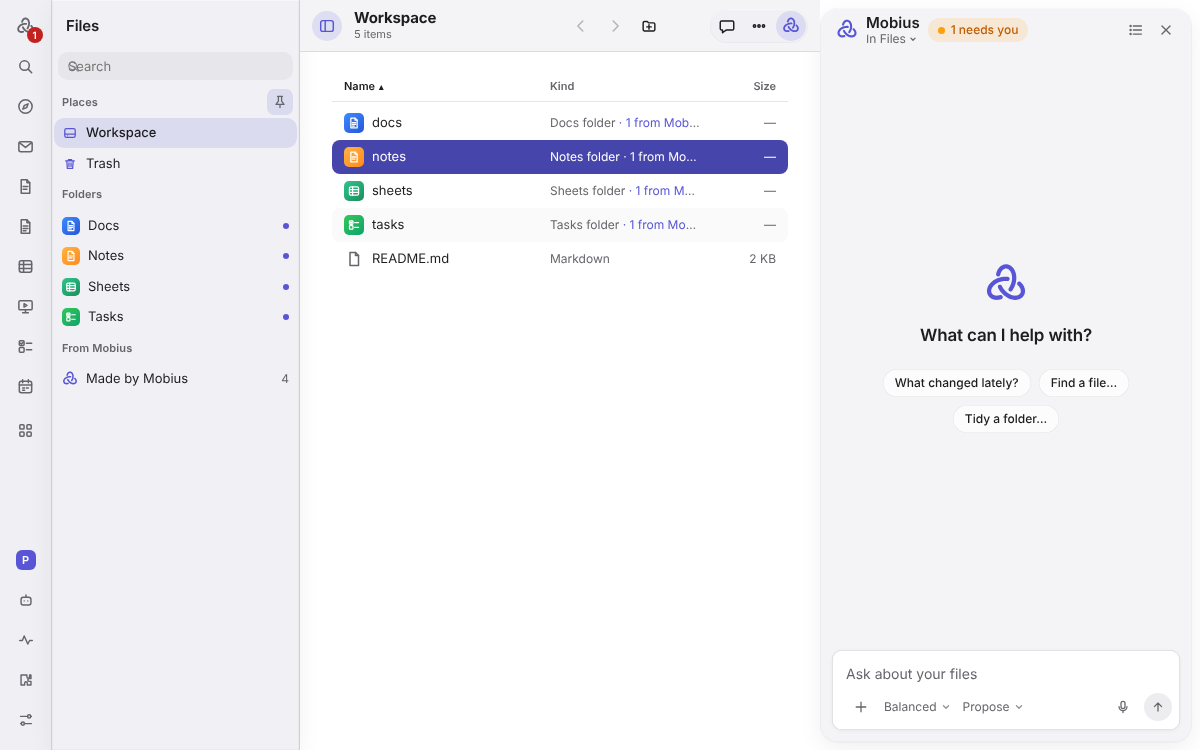
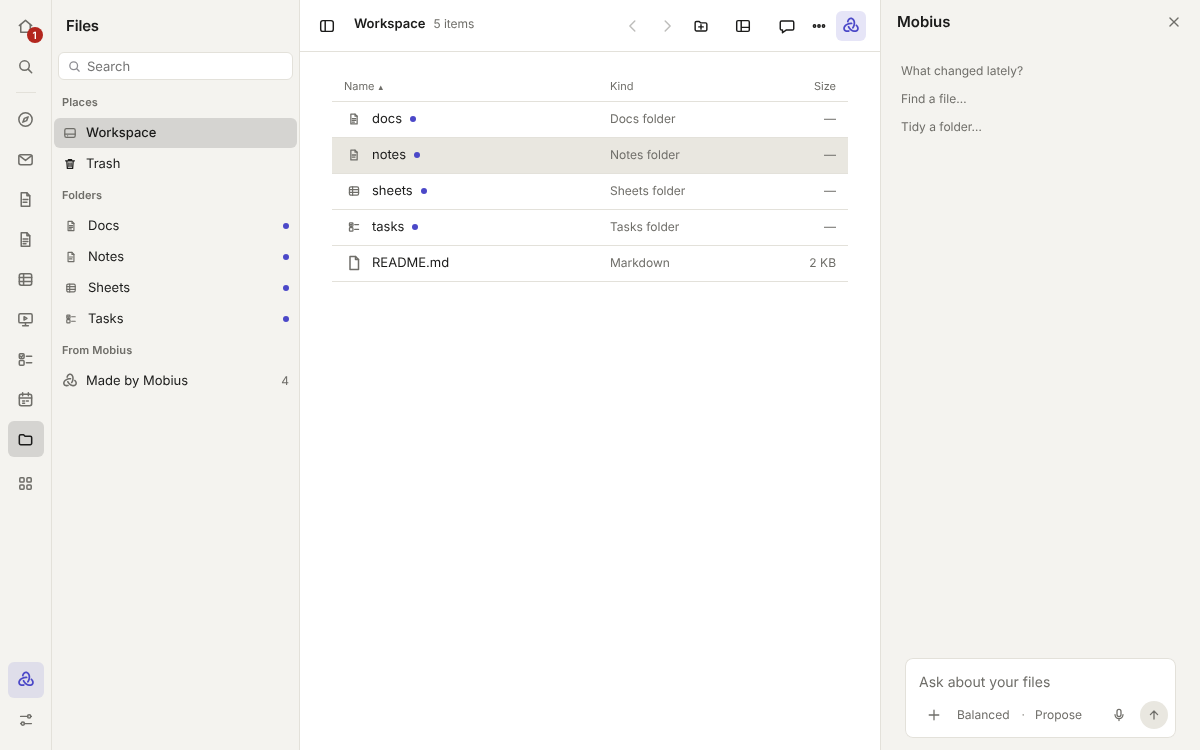
Files: plain rows, quiet headers, and Mobius as a dot, matching Mail (#145)
* Files: plain rows, quiet headers, and Mobius as a dot, matching Mail

Rows are plain with hairlines and select in the neutral --sel, as in Mail.
Column headers are regular grey. A folder holding Mobius's files shows an
indigo dot with a tooltip instead of text in Kind, and the sidebar dots a
folder only until it has been looked in since Mobius's last turn.

Claude-Session: https://claude.ai/code/session_01VRGwoA1njCqKTW7w1nBgzh

* Files: take the PR screenshots back out of the tree

Claude-Session: https://claude.ai/code/session_01VRGwoA1njCqKTW7w1nBgzh

---------

diff --git a/apps/desktop/src/Files.tsx b/apps/desktop/src/Files.tsx
@@ -109,12 +109,28 @@ export function useFiles(conversation: string, busy: boolean) {
     if (trashed && (!held || trashed.held === held)) setTrashed(null);
     void loadTrash();
   };
+  // Which top-level folders the person has opened since Mobius's last turn, kept per turn so a new turn's dots show again.
+  const seenKey = `mobius-files-seen:${made.turn ?? ''}`;
+  const [seen, setSeen] = useState<ReadonlySet<string>>(new Set());
+  useEffect(() => {
+    try { setSeen(new Set(JSON.parse(localStorage.getItem(seenKey) ?? '[]') as string[])); } catch { setSeen(new Set()); }
+  }, [seenKey]);
+  useEffect(() => {
+    if (place.kind !== 'folder' || !place.path) return;
+    const root = place.path.split('/')[0]!;
+    setSeen((before) => {
+      if (before.has(root)) return before;
+      const next = new Set(before).add(root);
+      try { localStorage.setItem(seenKey, JSON.stringify([...next])); } catch { /* the dot just shows again next time */ }
+      return next;
+    });
+  }, [place, seenKey]);
   const show = (path: string) => void window.mobius.files?.show?.(path);
   const can = { change: typeof window.mobius.files?.rename === 'function', show: typeof window.mobius.files?.show === 'function', trash: typeof window.mobius.files?.trashList === 'function' };
   return {
     place, setPlace, back, forward, canBack: trail.at > 0, canForward: trail.at < trail.places.length - 1,
     entries, roots, problem, made, conversation, keep, discard, sort, setSort, query, setQuery,
-    newFolder, rename, trash, putBack, show, trashed, trashItems, putBackItem, emptyTrash, dismissTrashed: () => setTrashed(null), notice, dismissNotice: () => setNotice(null), can,
+    newFolder, rename, trash, putBack, show, trashed, trashItems, putBackItem, emptyTrash, seen, dismissTrashed: () => setTrashed(null), notice, dismissNotice: () => setNotice(null), can,
     available: window.mobius.files !== undefined,
   };
 }
@@ -164,7 +180,8 @@ export function filesSub(files: FilesState): string | undefined {
 /** Files' sidebar: search, the drive, the workspace's folders, and Made by Mobius with how many things wait. */
 export function FilesSidebar({ files, pin }: { files: FilesState; pin?: ReactNode }) {
   const here = files.place.kind === 'folder' ? files.place.path : null;
-  const held = new Set(files.made.files.map((f) => f.split('/')[0]));
+  // A dot only on a folder holding something new from Mobius that the person has not looked in since.
+  const held = new Set(files.made.files.map((f) => f.split('/')[0]!).filter((r) => !files.seen.has(r)));
   return (
     <AppSidebar label="Files sidebar">
       <SidebarSearch label={files.place.kind === 'made' ? 'Search Made by Mobius' : files.place.kind === 'trash' ? 'Search the Trash' : 'Search this folder'} value={files.query} onChange={files.setQuery} />
@@ -353,9 +370,9 @@ export function FilesPage({ files, onOpenFile, onAsk }: { files: FilesState; onO
                   className="files-row" data-proposed={(mine && e.type === 'file') || undefined} aria-label={mine ? `${e.name}, from Mobius` : e.name}
                   onClick={() => setSelected(e.path)} onDoubleClick={() => open(e.path, e.type)}
                   onContextMenu={(ev) => { ev.preventDefault(); setSelected(e.path); setMenu({ path: e.path, type: e.type, x: ev.clientX, y: ev.clientY }); }}>
-                  <span role="gridcell" className="files-cell files-name"><FileIcon path={e.path} type={e.type} />{nameCell(e.path, e.name)}</span>
+                  <span role="gridcell" className="files-cell files-name"><FileIcon path={e.path} type={e.type} />{nameCell(e.path, e.name)}{held > 0 && <span className="files-dot" role="img" aria-label={`${held} from Mobius`} title={held === 1 ? 'Holds one thing from Mobius, not kept yet' : `Holds ${held} things from Mobius, not kept yet`} />}</span>
                   <span role="gridcell" className="files-cell files-date">{e.modified ? relativeTime(e.modified, Date.now()) : '—'}</span>
-                  <span role="gridcell" className="files-cell files-kind">{fileKind(e.path, e.type)}{held > 0 && <span className="files-held"> · {held} from Mobius</span>}</span>
+                  <span role="gridcell" className="files-cell files-kind">{fileKind(e.path, e.type)}</span>
                   <span role="gridcell" className="files-cell files-size">{e.type === 'folder' ? '—' : size(e.bytes)}</span>
                 </div>
               );

diff --git a/apps/desktop/src/files.css b/apps/desktop/src/files.css
@@ -1,6 +1,6 @@
 /* Files: the workspace as a drive, laid out like Finder's list view. What Mobius made is dashed until kept. */
 .files-page { gap: var(--sp-3); }
-.files-page { --files-col: min(100%, 720px); --files-sel: color-mix(in srgb, var(--accent) 80%, #000); }
+.files-page { --files-col: min(100%, 720px); }
 .files-crumbs, .files-table, .files-empty, .files-page > .field-error { width: var(--files-col); margin-inline: auto; }
 
 /* The path bar at the foot, as Finder's: where this folder is, each part a way back up. */
@@ -10,29 +10,23 @@
 /* The list: a header row of sortable columns, then one row per entry. */
 .files-head, .files-row { display: grid; grid-template-columns: minmax(0, 1fr) 110px 196px 64px; align-items: center; column-gap: var(--sp-3); }
 .files-table[aria-label="Made by Mobius"] .files-row { grid-template-columns: minmax(0, 1fr) 90px minmax(0, 200px); }
-.files-head { padding: 0 var(--sp-3) var(--sp-1); border-bottom: 1px solid var(--line); margin-bottom: var(--sp-1); }
-.files-col { justify-self: start; display: inline-flex; align-items: center; gap: 4px; padding: 2px 4px; margin-left: -4px; border-radius: var(--radius-small, 4px); font-size: var(--fs-xs); font-weight: var(--fw-semibold, 600); color: var(--muted); }
+.files-head { padding: 0 var(--sp-3) var(--sp-1); border-bottom: 1px solid var(--line); }
+.files-col { justify-self: start; display: inline-flex; align-items: center; gap: 4px; padding: 2px 4px; margin-left: -4px; border-radius: var(--radius-small, 4px); font-size: var(--fs-xs); font-weight: 400; color: var(--muted); }
 .files-col:hover { background: var(--wash); color: var(--ink); }
-.files-col[aria-sort="ascending"], .files-col[aria-sort="descending"] { color: var(--ink); }
 .files-col[data-col="size"] { justify-self: end; margin-left: 0; margin-right: -4px; }
 .files-sort { font-size: 9px; }
 
-.files-row { min-height: 34px; padding: 0 var(--sp-3); border-radius: var(--radius-control, 6px); cursor: default; user-select: none; transition: background var(--dur-fast) var(--ease); }
-.files-row:nth-child(even) { background: color-mix(in srgb, var(--ink) 2.5%, transparent); }
-.files-row:hover { background: var(--wash); }
+.files-row { min-height: 36px; padding: 0 var(--sp-3); border-bottom: 1px solid var(--line); cursor: default; user-select: none; transition: background var(--dur-fast) var(--ease); }
+.files-row:hover { background: var(--line-soft, var(--soft)); }
 .files-row:focus { outline: none; }
-.files-row[aria-selected="true"] { background: var(--files-sel); color: #fff; }
-.files-row[aria-selected="true"] .files-cell { color: inherit; }
-.files-row[aria-selected="true"] .files-icon[data-glyph] { color: #fff; }
-.files-row:focus-visible:not([aria-selected="true"]) { box-shadow: inset 0 0 0 2px color-mix(in srgb, var(--accent) 60%, transparent); }
-.files-row[data-proposed] { outline: 1px dashed var(--mobius); outline-offset: -1px; }
-.files-row[data-proposed][aria-selected="true"] { outline-color: #fff; }
+.files-row[aria-selected="true"] { background: var(--sel, var(--wash)); }
+.files-row:focus-visible { box-shadow: inset 0 0 0 2px color-mix(in srgb, var(--accent) 60%, transparent); }
+.files-row[data-proposed] { outline: 1px dashed var(--mobius); outline-offset: -4px; }
 .files-cell { min-width: 0; overflow: hidden; text-overflow: ellipsis; white-space: nowrap; font-size: var(--fs-sm); color: var(--muted); }
 .files-name { display: flex; align-items: center; gap: var(--sp-2); color: var(--ink); font-size: var(--fs-md, 14px); }
 .files-label { overflow: hidden; text-overflow: ellipsis; }
 .files-size { text-align: right; font-variant-numeric: tabular-nums; }
-.files-held { color: var(--accent); }
-.files-row[aria-selected="true"] .files-held { color: inherit; }
+.files-dot { flex: none; width: 6px; height: 6px; border-radius: 3px; background: var(--mobius, var(--accent)); }
 .files-none { padding: var(--sp-3); }
 
 /* Icons: an app's file wears that app's tile; folders are Finder blue; anything else is a plain page. */

diff --git a/apps/desktop/e2e/files.spec.ts b/apps/desktop/e2e/files.spec.ts
@@ -89,8 +89,12 @@ test('what Mobius made is in Made by Mobius, dashed in the drive, until it is ke
   await expect(made.getByRole('option', { name: 'Work / Brief, from Mobius' })).toHaveAttribute('data-proposed');
   await side.getByRole('button', { name: 'Workspace' }).click();
   const page = shell().getByRole('region', { name: 'Files' });
-  await expect(page.getByRole('row', { name: 'notes, from Mobius' })).toContainText('1 from Mobius');
+  // A folder holding something from Mobius has an indigo dot, here and in the sidebar until it is looked in.
+  await expect(page.getByRole('row', { name: 'notes, from Mobius' }).getByRole('img', { name: '1 from Mobius' })).toBeVisible();
+  const notesSide = side.getByRole('region', { name: 'Folders' }).getByRole('button', { name: 'Notes' });
+  await expect(notesSide).toHaveAttribute('data-proposed', 'true');
   await page.getByRole('row', { name: 'notes, from Mobius' }).dblclick();
+  await expect(notesSide).not.toHaveAttribute('data-proposed', 'true');
   await page.getByRole('row', { name: 'Work, from Mobius' }).dblclick();
   await expect(page.getByRole('row', { name: 'Brief.md, from Mobius' })).toHaveAttribute('data-proposed');
   await side.getByRole('button', { name: /Made by Mobius/ }).click();

diff --git a/docs/apps/browse-and-find.md b/docs/apps/browse-and-find.md
@@ -87,8 +87,8 @@ Your whole workspace as a drive.
 ![The Files app in Mobius](../readme/apps/files.png)
 
 - **The drive** is a list like Finder's: Name, Kind and Size columns (click one to sort; folders stay first), and each
-  file wears the icon of the app that opens it. A file Mobius made is dashed until kept; a folder says how many such
-  files it holds.
+  file wears the icon of the app that opens it. A file Mobius made is dashed until kept; a folder holding such files
+  has an indigo dot (hover it for how many).
 - **Select, then open.** A click selects, a double-click or Enter opens: folders in place, files in their own app. The
   arrow keys move, Backspace goes up a folder, and Back and Forward (Alt+Left, Alt+Right) walk the folders you visited.
 - **The toolbar** names the open folder with how many items it holds, and has Back, Forward and New folder. The
@@ -104,5 +104,5 @@ Your whole workspace as a drive.
   trashed from here.
 - **Date Modified** shows when each file and folder last changed. The agent's own `files.list` leaves dates out.
 - **The sidebar** has Workspace and Trash under Places, the workspace's folders (Notes, Docs, Sheets...) under Folders, a dot on
-  any folder holding something from Mobius, and Made by Mobius under From Mobius.
+  a folder holding something new from Mobius until you look in it, and Made by Mobius under From Mobius.
 - **Made by Mobius** collects what Mobius created, dashed until you keep it, with a count of what is waiting.
